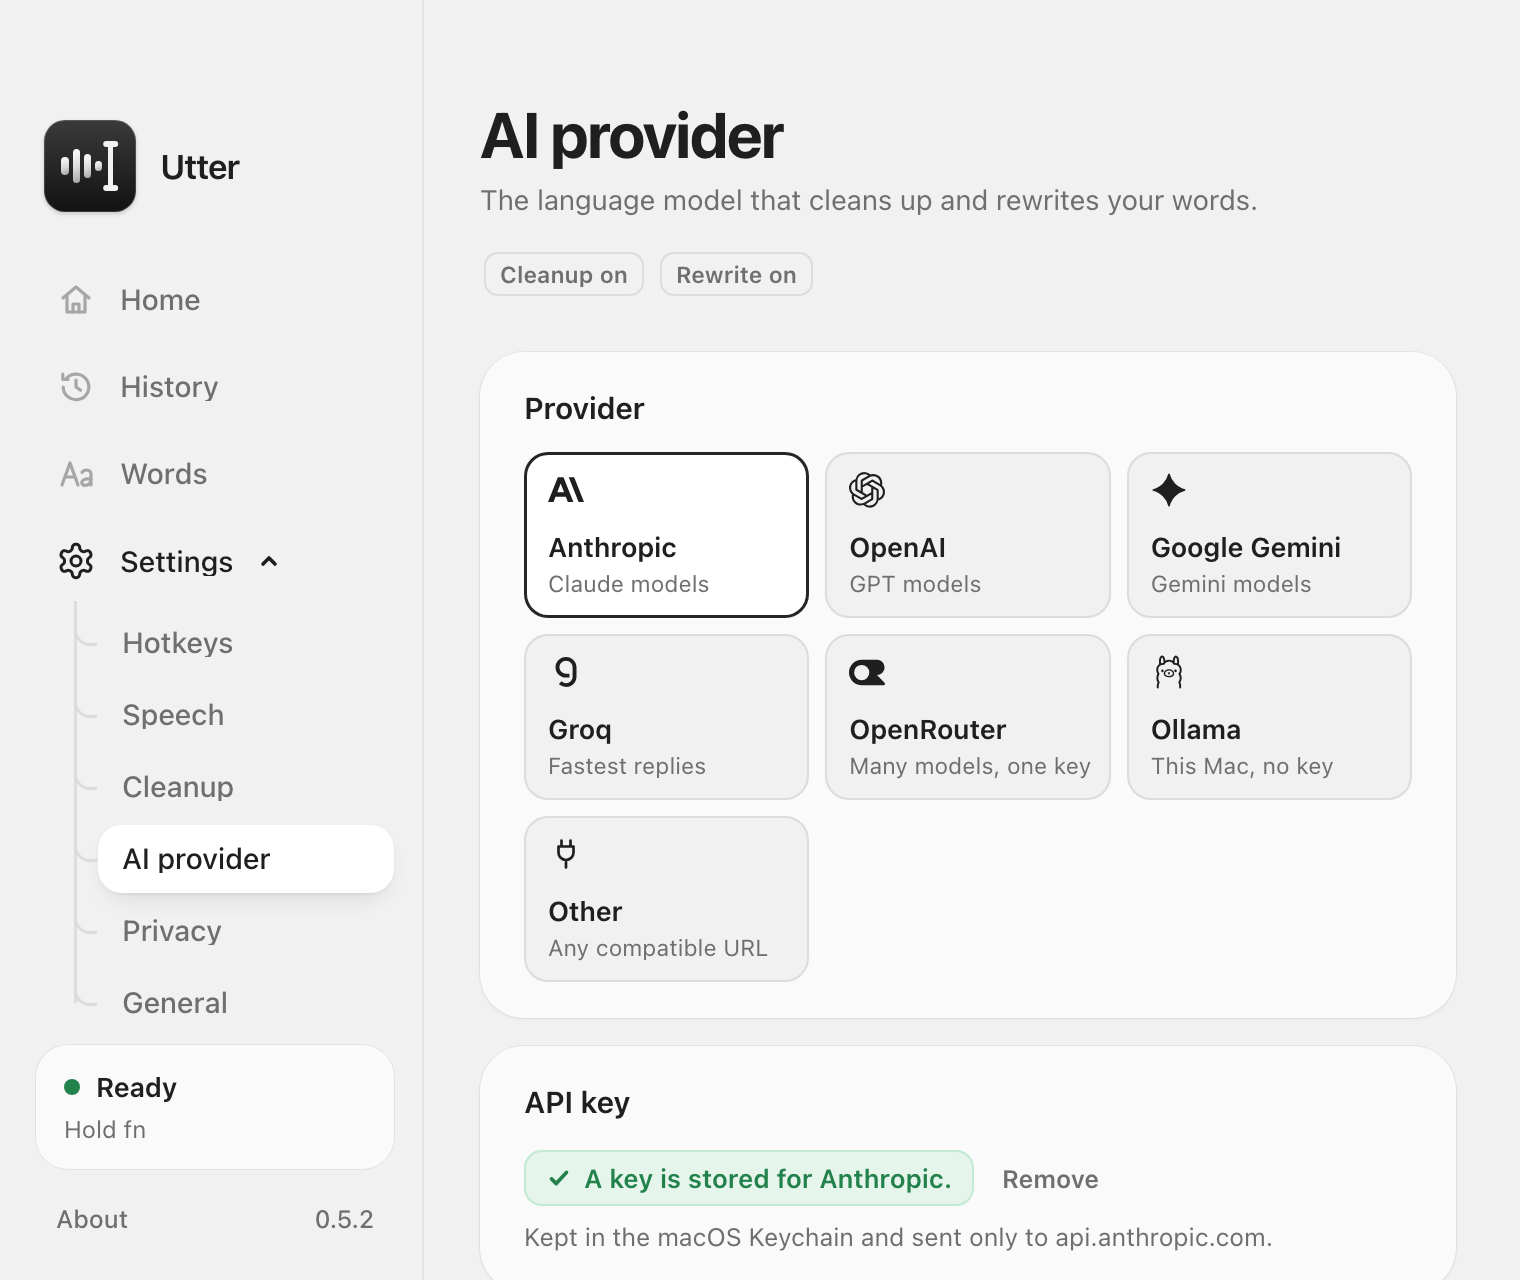
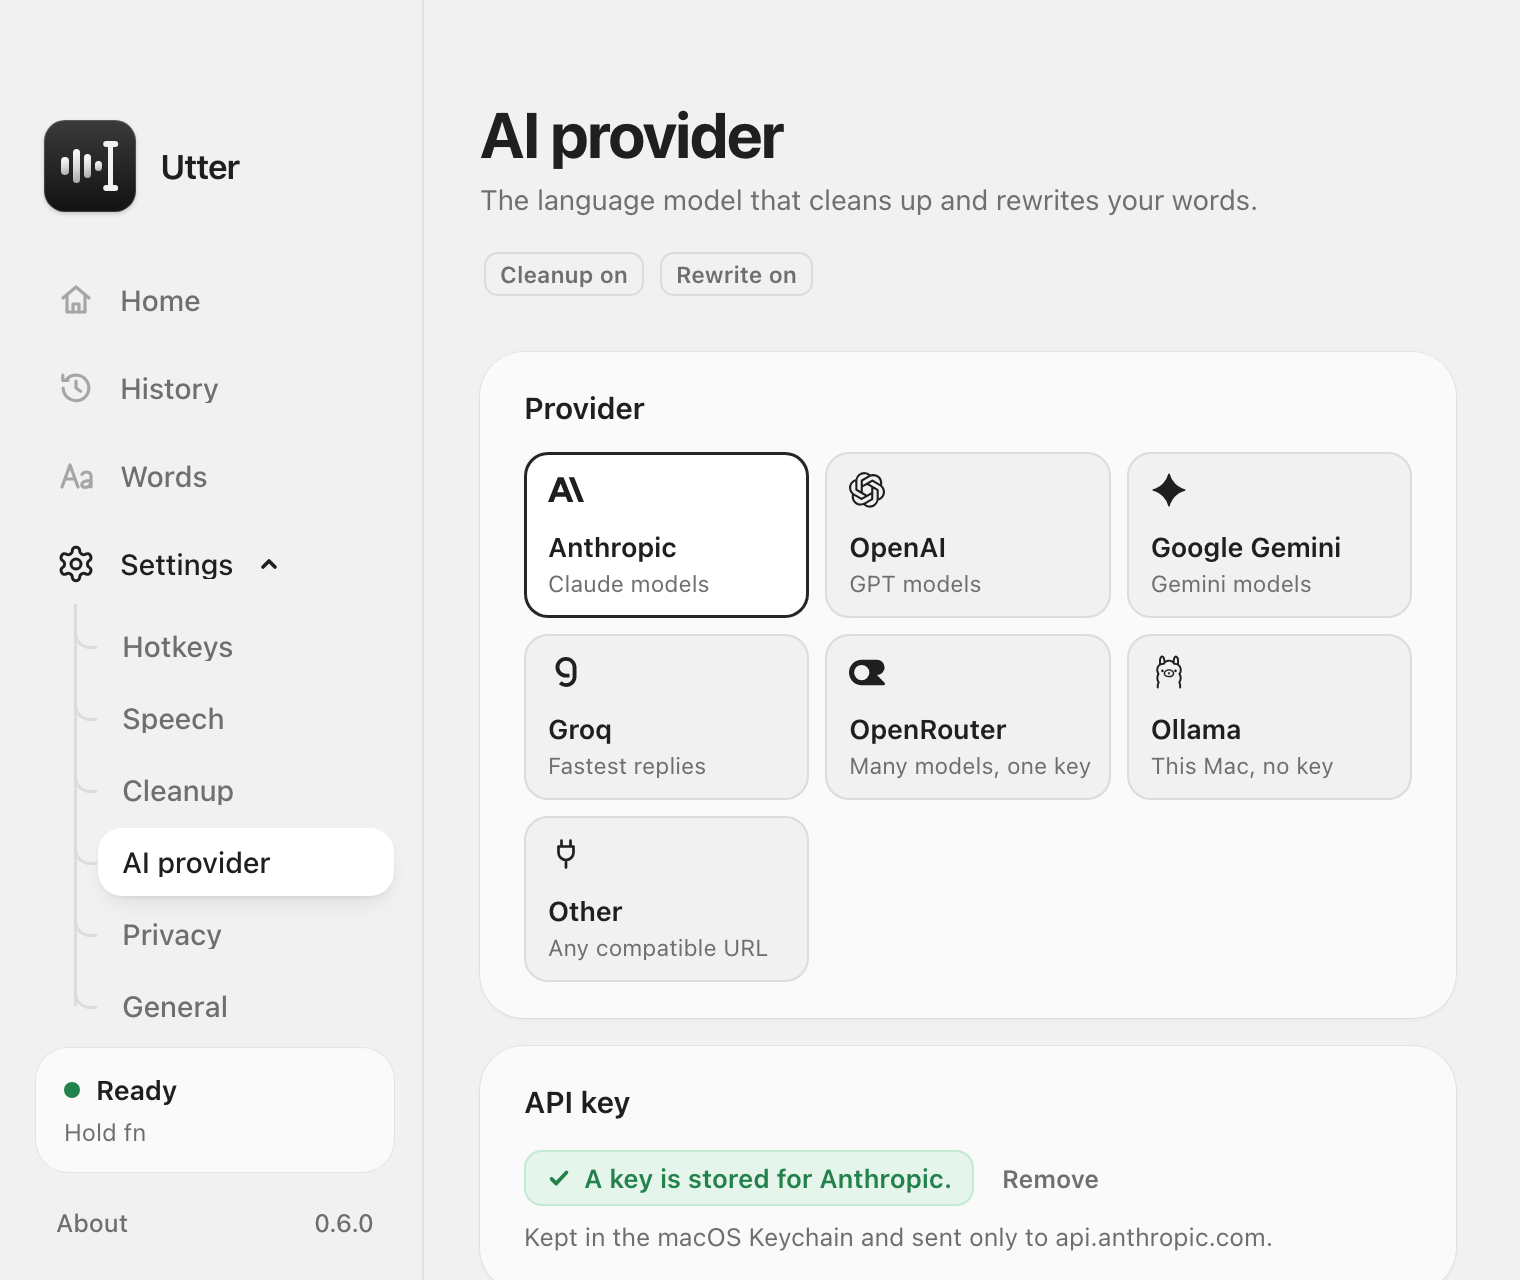
Version 0.6.0
Screenshots retaken at 0.6.0, with fn as the default hotkey.

diff --git a/site/index.html b/site/index.html
@@ -93,7 +93,7 @@
       <section class="hero" aria-labelledby="hero-h">
         <div class="wrap">
           <a class="eyebrow" href="https://github.com/ShanTirmizi/utter/releases/latest">
-            <span><b>Utter <span data-copy="app-version">0.5.2</span></b> has a whole new look</span>
+            <span><b>Utter <span data-copy="app-version">0.6.0</span></b> has a whole new look</span>
             <span class="tag mi sm">New</span>
           </a>
           <h1 id="hero-h">Just talk. <span class="soft">Utter types it.</span></h1>
@@ -115,7 +115,7 @@
                Elements marked data-copy="app-version" copy the version from here.
                ========================================================================== -->
           <p class="meta">
-            Beta <span id="app-version">0.5.2</span> · <span id="dmg-size">Under 4 MB</span> · Apple silicon, macOS 12 or later
+            Beta <span id="app-version">0.6.0</span> · <span id="dmg-size">Under 4 MB</span> · Apple silicon, macOS 12 or later
           </p>
         </div>
 
@@ -855,7 +855,7 @@
             <a class="btn on-dark lg" href="https://github.com/ShanTirmizi/utter/releases/latest/download/Utter-apple-silicon.dmg"><svg aria-hidden="true"><use href="#down" /></svg>Download for Mac</a>
             <a class="btn on-dark-ghost lg" href="https://github.com/ShanTirmizi/utter">Read the source</a>
           </div>
-          <p class="meta">Version <span data-copy="app-version">0.5.2</span> · Apple silicon · macOS 12 or later</p>
+          <p class="meta">Version <span data-copy="app-version">0.6.0</span> · Apple silicon · macOS 12 or later</p>
         </div>
       </section>
     </main>
